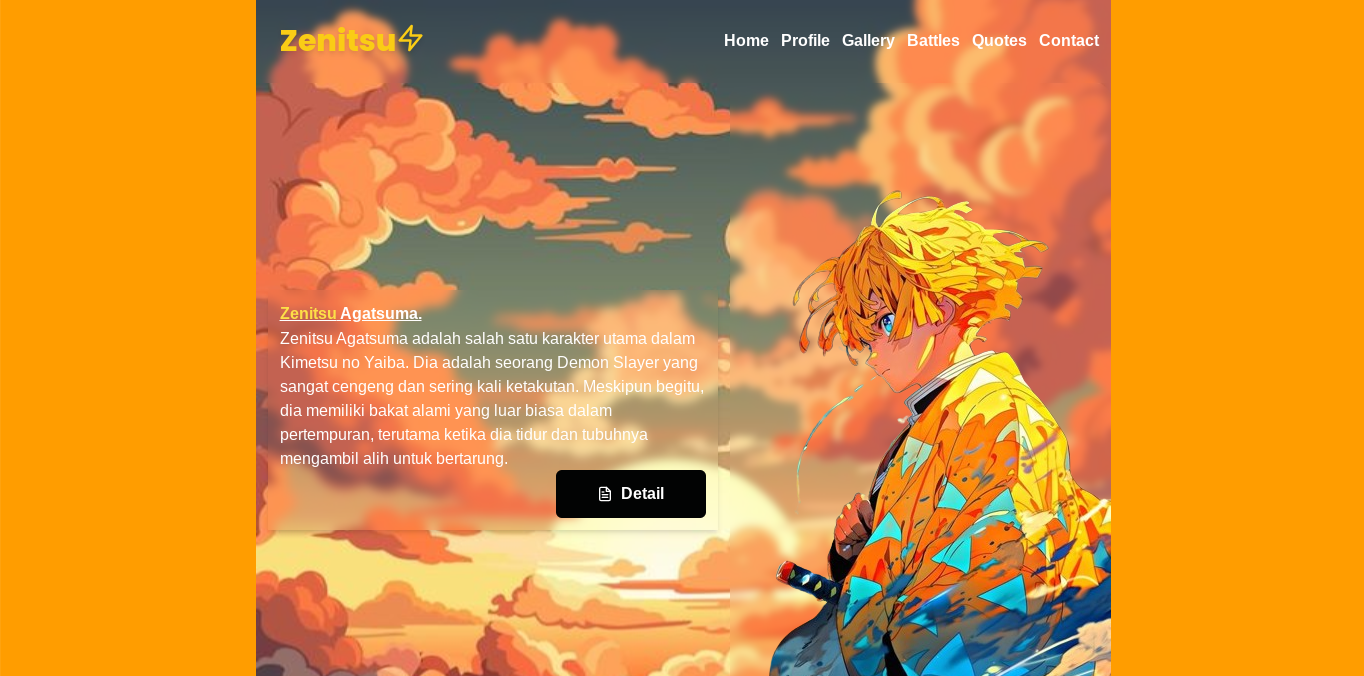
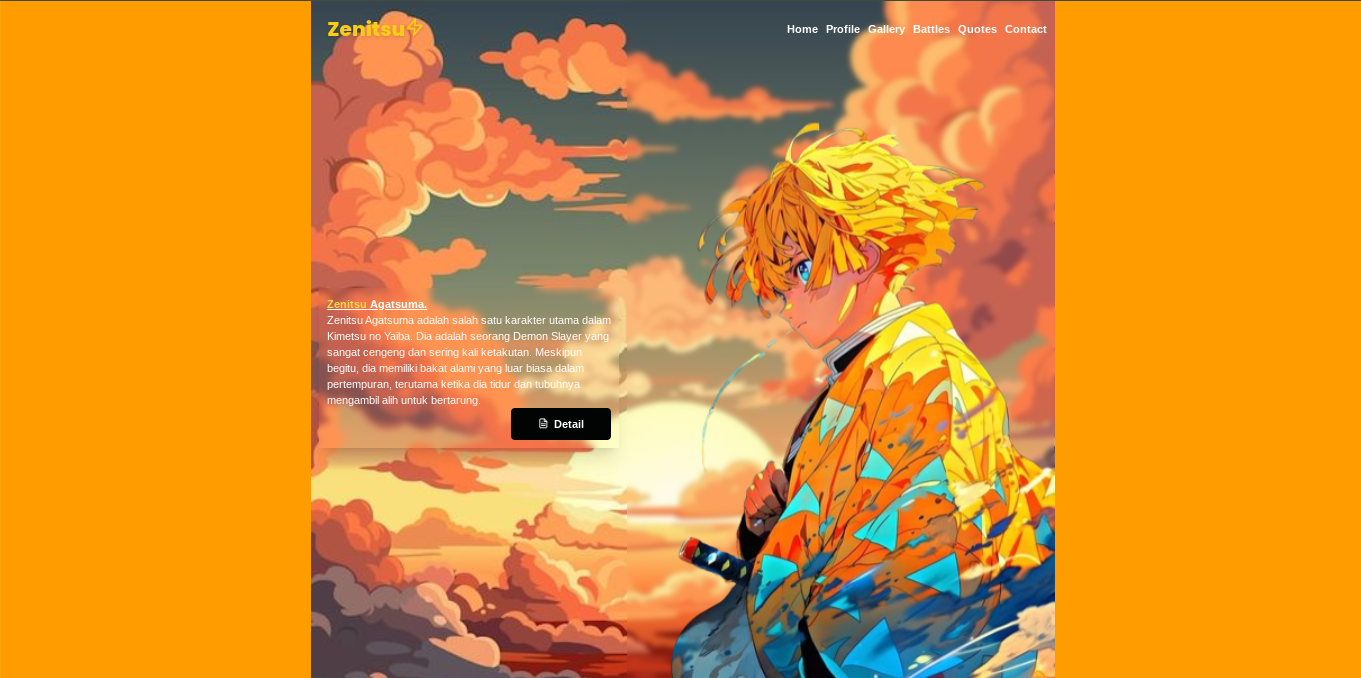
refactor: main layout and header

diff --git a/src/components/HeroSection.tsx b/src/components/HeroSection.tsx
@@ -4,7 +4,7 @@ import { FiFileText } from "react-icons/fi";
 
 const HeroSection:React.FC = ()=>{
     return (<div className="flex justify-between items-center mx-0 px-0 text-white">
-        <div className="p-3 md:max-w-[450px] backdrop-blur-[5px] shadow-md m-3">
+        <div className="p-3 md:max-w-[450px] backdrop-blur-[5px] shadow-xl m-3">
             
             <h2 className="font-bold underline underline-offset-1 underline-red-500"><span className="text-yellow-300">Zenitsu</span> Agatsuma.</h2>
             <article>
@@ -16,7 +16,7 @@ const HeroSection:React.FC = ()=>{
                 <a href="#profile" className="inline-flex items-center justify-center bg-[rgba(2,3,3,8)] p-3 w-[150px] rounded-md text-1xl font-bold gap-2 cursor-pointer"><FiFileText/> Detail</a>
             </div>
         </div>
-        <div className="p-0 m-0 backdrop-blur-[4px] rounded-[1rem] w-full">
+        <div className="p-0 m-0  rounded-[1rem] w-full backdrop-blur-sm">
             <img src={Hero} alt="zenitsu" className="w-full"/>
         </div>
     </div>);

diff --git a/src/components/Header.tsx b/src/components/Header.tsx
@@ -3,12 +3,14 @@ import Navbar from "./Navbar";
 import { FiAlignRight ,FiZap } from "react-icons/fi";
 
 const Header:React.FC = ()=>{
-    return(<header className="flex w-full p-3 backdrop-blur-[4px]">
-        <div className="w-full">
-            <h1 className="flex p-3 font-zen text-3xl font-extrabold text-yellow-400  drop-shadow-md w-[170px] rounded-md">Zenitsu <FiZap/></h1>
+    return(<header className="flex justify-center w-full p-3 fixed top-0 left-0 z-[999]">
+        <div className="flex justify-center px-3 w-full max-w-[1115px]">
+            <div className="w-full">
+                <h1 className="flex p-3 font-zen text-3xl font-extrabold text-yellow-400  drop-shadow-md w-[170px] rounded-md">Zenitsu <FiZap/></h1>
+            </div>
+            <FiAlignRight className="text-3xl md:hidden"/>
+            <Navbar/>
         </div>
-        <FiAlignRight className="text-3xl md:hidden"/>
-        <Navbar/>
     </header>);
 }
 

diff --git a/src/components/Navbar.tsx b/src/components/Navbar.tsx
@@ -1,7 +1,7 @@
 import React from "react"
 
 const Navbar:React.FC = ()=>{
-    return (<nav className="flex font-bold gap-3 justify-between md:justify-end items-center md:flex-row flex-col text-white">
+    return (<nav className="flex font-bold gap-3 justify-between md:justify-end z-[999] items-center md:flex-row flex-col text-white">
         <a href="#home">Home</a>
         <a href="#profile">Profile</a>
         <a href="#gallery">Gallery</a>

diff --git a/src/App.tsx b/src/App.tsx
@@ -4,7 +4,7 @@ import { BgHero } from './assets'
 
 const App:React.FC = () => {
   return (
-    <div className="overflow-x-hidden max-w-[1115px] bg-no-repeat bg-cover" style={{backgroundImage:`url(${BgHero})`}}>
+    <div className="flex flex-col justify-center   w-full overflow-x-hidden max-w-[1115px] bg-no-repeat bg-cover relative" style={{backgroundImage:`url(${BgHero})`}}>
       <Header/>
       <Sidebar/>
       <HeroSection/>

diff --git a/index.html b/index.html
@@ -2,7 +2,7 @@
 <html lang="en" class="mx-0 px-0">
   <head>
     <meta charset="UTF-8" />
-    <link rel="icon" type="image/svg+xml" href="/vite.svg" />
+    <link rel="icon" type="image/svg+xml" href="/zenitsu.svg" />
     <meta name="viewport" content="width=device-width, initial-scale=1.0" />
     <title>Vite + React + TS</title>
   </head>

diff --git a/src/main.tsx b/src/main.tsx
@@ -5,7 +5,7 @@ import './index.css'
 
 ReactDOM.createRoot(document.getElementById('root')!).render(
   <React.StrictMode>
-    <div className='flex justify-center items-center w-full bg-[#FF9D00]'>
+    <div className='flex justify-center items-center flex-col w-full bg-[#FF9D00]'>
          <App />
     </div>
   </React.StrictMode>,
